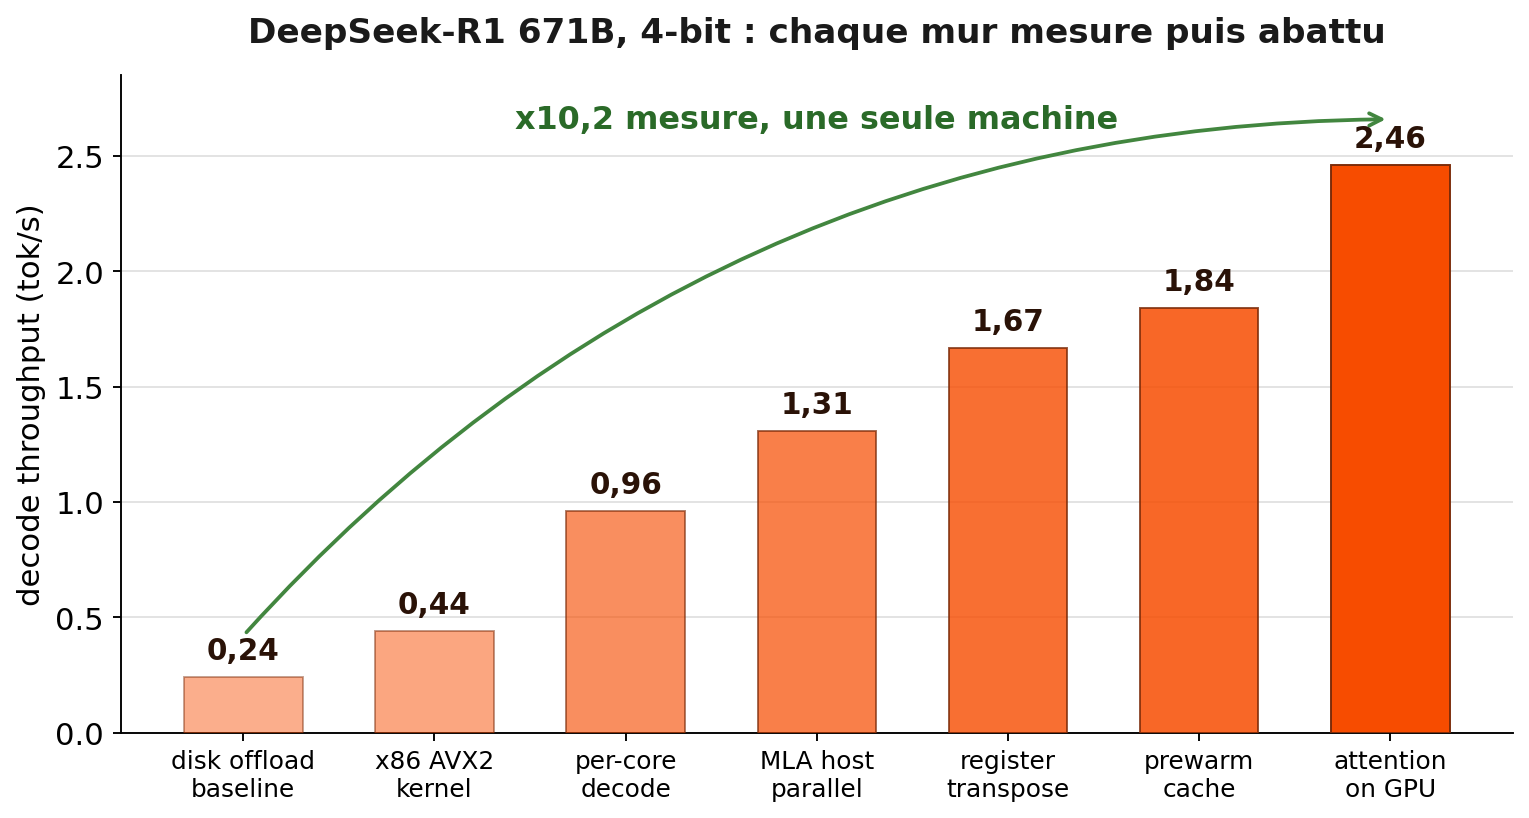
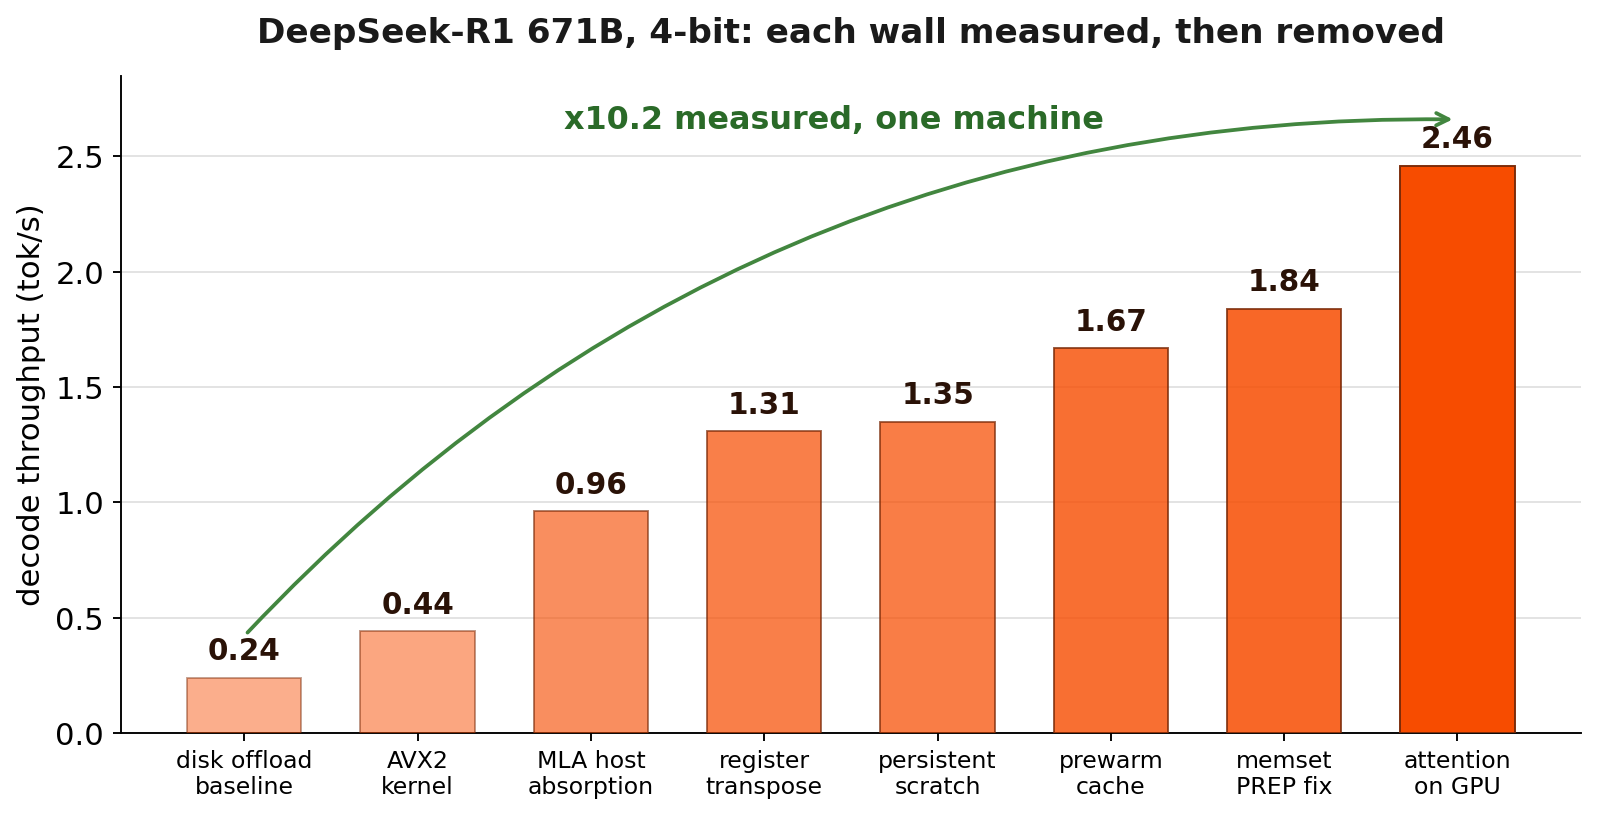
fig: inversion chart in English, all eight measured walls, correct labels
The figure was French and showed seven bars while the paper text and site say
eight walls; the two middle steps were mislabelled. Regenerate with English
labels and all eight measured values (0.24, 0.44, 0.96, 1.31, 1.35, 1.67, 1.84,
2.46 tok/s) in session order, and rebuild the PDF.

diff --git a/bench/plot_inversion.py b/bench/plot_inversion.py
@@ -1,17 +1,19 @@
 # Inversion chain figure: 671B decode throughput, disk-offload baseline to CPU-experts
-# steady state, each step a measured session. Clean white-background for the paper.
+# steady state. Eight measured walls, each removed in turn (RESULTS_deepseek.md
+# sessions B -> H). Clean white-background for the paper. English labels.
 import matplotlib
 matplotlib.use("Agg")
 import matplotlib.pyplot as plt
-from matplotlib.ticker import FuncFormatter
 
+# (label, tok/s) for the eight measured walls, in order, each one removed.
 steps = [
     ("disk offload\nbaseline", 0.24),
-    ("x86 AVX2\nkernel", 0.44),
-    ("per-core\ndecode", 0.96),
-    ("MLA host\nparallel", 1.31),
-    ("register\ntranspose", 1.67),
-    ("prewarm\ncache", 1.84),
+    ("AVX2\nkernel", 0.44),
+    ("MLA host\nabsorption", 0.96),
+    ("register\ntranspose", 1.31),
+    ("persistent\nscratch", 1.35),
+    ("prewarm\ncache", 1.67),
+    ("memset\nPREP fix", 1.84),
     ("attention\non GPU", 2.46),
 ]
 labels = [s[0] for s in steps]
@@ -20,19 +22,19 @@ x = list(range(len(vals)))
 
 RUST = "#f74c00"
 plt.rcParams.update({"font.size": 13, "font.family": "DejaVu Sans"})
-fig, ax = plt.subplots(figsize=(9.2, 5.0))
+fig, ax = plt.subplots(figsize=(9.6, 5.0))
 
-bars = ax.bar(x, vals, width=0.62, color=RUST, edgecolor="#7a2a08", linewidth=0.8, zorder=3)
-# gradient-ish: fade the early bars
+bars = ax.bar(x, vals, width=0.66, color=RUST, edgecolor="#7a2a08", linewidth=0.8, zorder=3)
+# fade the early bars into the final full-saturation win
 for b, v in zip(bars, vals):
     b.set_alpha(0.45 + 0.55 * (v - 0.24) / (2.46 - 0.24))
 
 for xi, v in zip(x, vals):
-    ax.text(xi, v + 0.05, f"{v:.2f}".replace(".", ","), ha="center", va="bottom",
+    ax.text(xi, v + 0.05, f"{v:.2f}", ha="center", va="bottom",
             fontsize=12.5, fontweight="bold", color="#2a1207")
 
 ax.set_xticks(x)
-ax.set_xticklabels(labels, fontsize=10.5)
+ax.set_xticklabels(labels, fontsize=10)
 ax.set_ylabel("decode throughput (tok/s)", fontsize=13)
 ax.set_ylim(0, 2.85)
 ax.set_axisbelow(True)
@@ -41,13 +43,13 @@ for spine in ["top", "right"]:
     ax.spines[spine].set_visible(False)
 
 # annotate the total gain
-ax.annotate("", xy=(6, 2.66), xytext=(0, 0.42),
+ax.annotate("", xy=(7, 2.66), xytext=(0, 0.42),
             arrowprops=dict(arrowstyle="->", color="#42863f", lw=1.6,
                             connectionstyle="arc3,rad=-0.22"))
-ax.text(3.0, 2.62, "x10,2 mesure, une seule machine", ha="center",
+ax.text(3.4, 2.62, "x10.2 measured, one machine", ha="center",
         fontsize=13.5, fontweight="bold", color="#2a6a28")
 
-ax.set_title("DeepSeek-R1 671B, 4-bit : chaque mur mesure puis abattu",
+ax.set_title("DeepSeek-R1 671B, 4-bit: each wall measured, then removed",
              fontsize=14.5, fontweight="bold", pad=14, color="#1a1a1a")
 plt.tight_layout()
 plt.savefig("paper/figures/inversion_chain.png", dpi=170, bbox_inches="tight", facecolor="white")